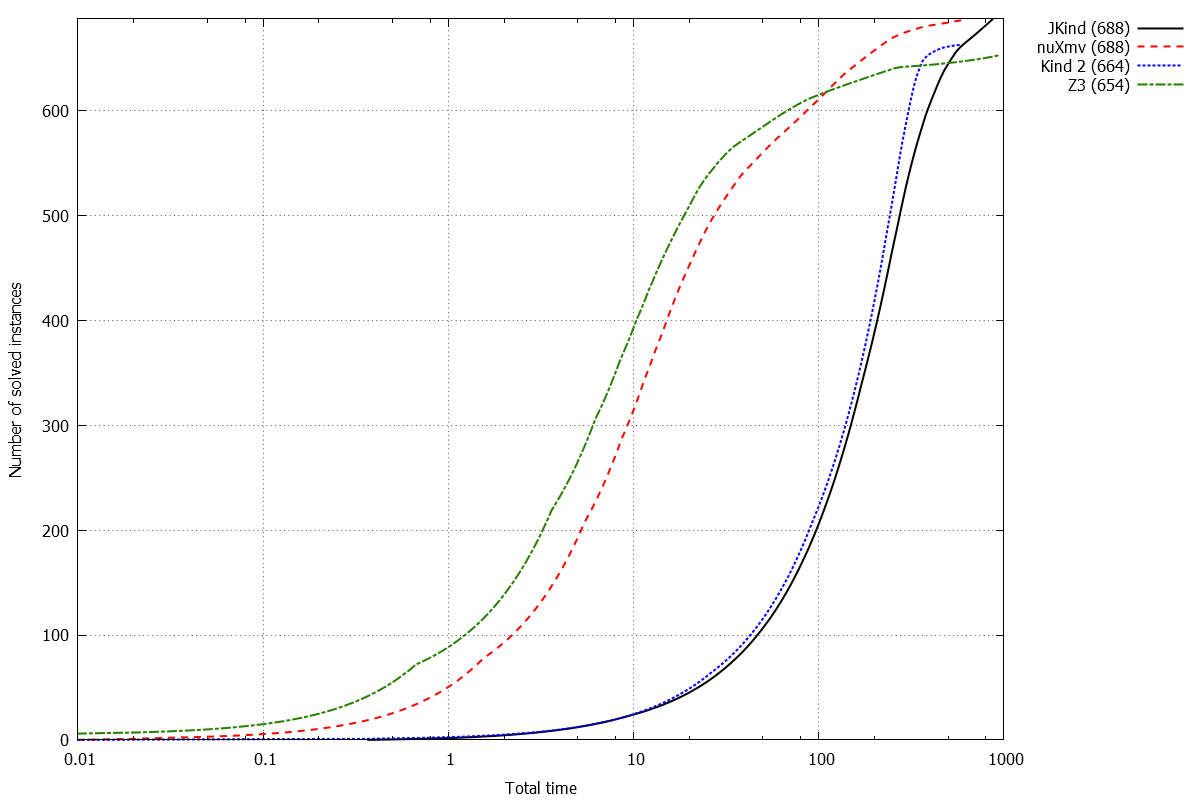
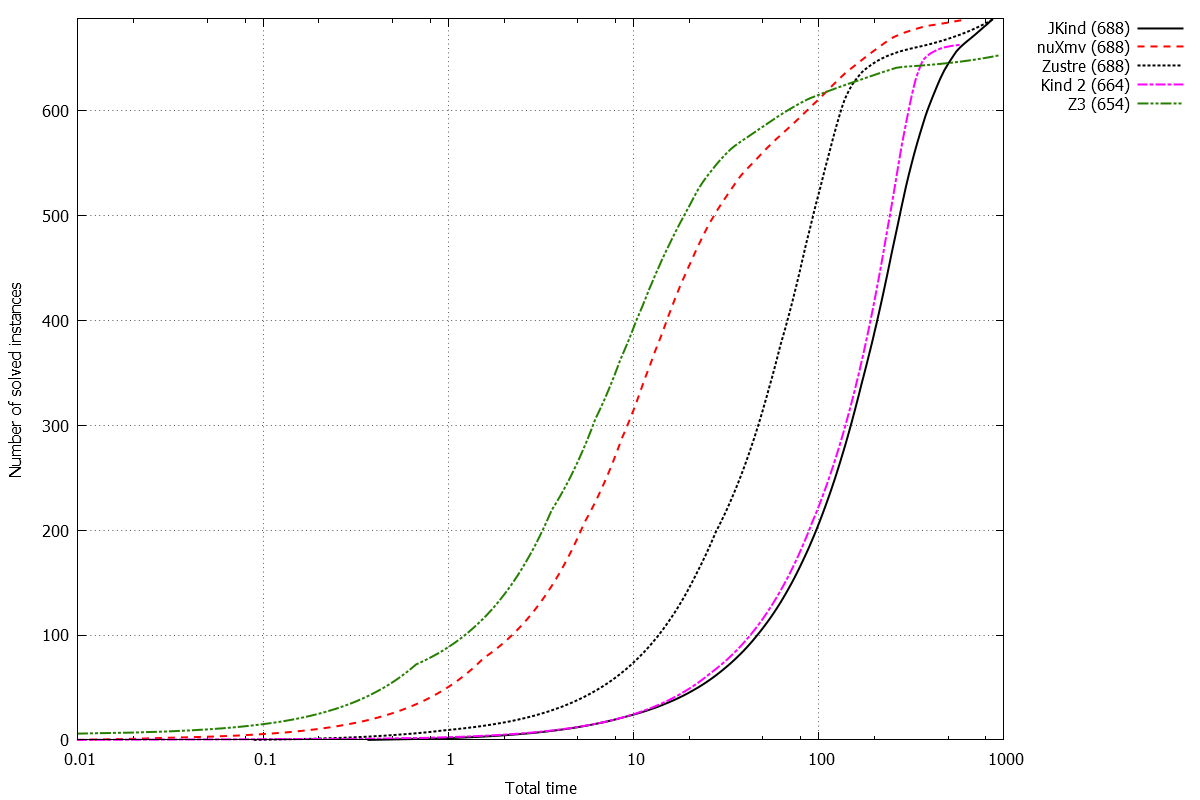
Added zustre results

diff --git a/results/process.py b/results/process.py
@@ -4,7 +4,7 @@ import os
 if not os.path.isdir('processed'):
     os.mkdir('processed')
 
-for filename in ['nuxmv.txt', 'z3.txt', 'kind2.txt', 'jkind.txt']:
+for filename in ['nuxmv.txt', 'z3.txt', 'kind2.txt', 'jkind.txt', 'zustre.txt']:
     times = []
     with open(filename) as raw:
         for line in raw.readlines():
